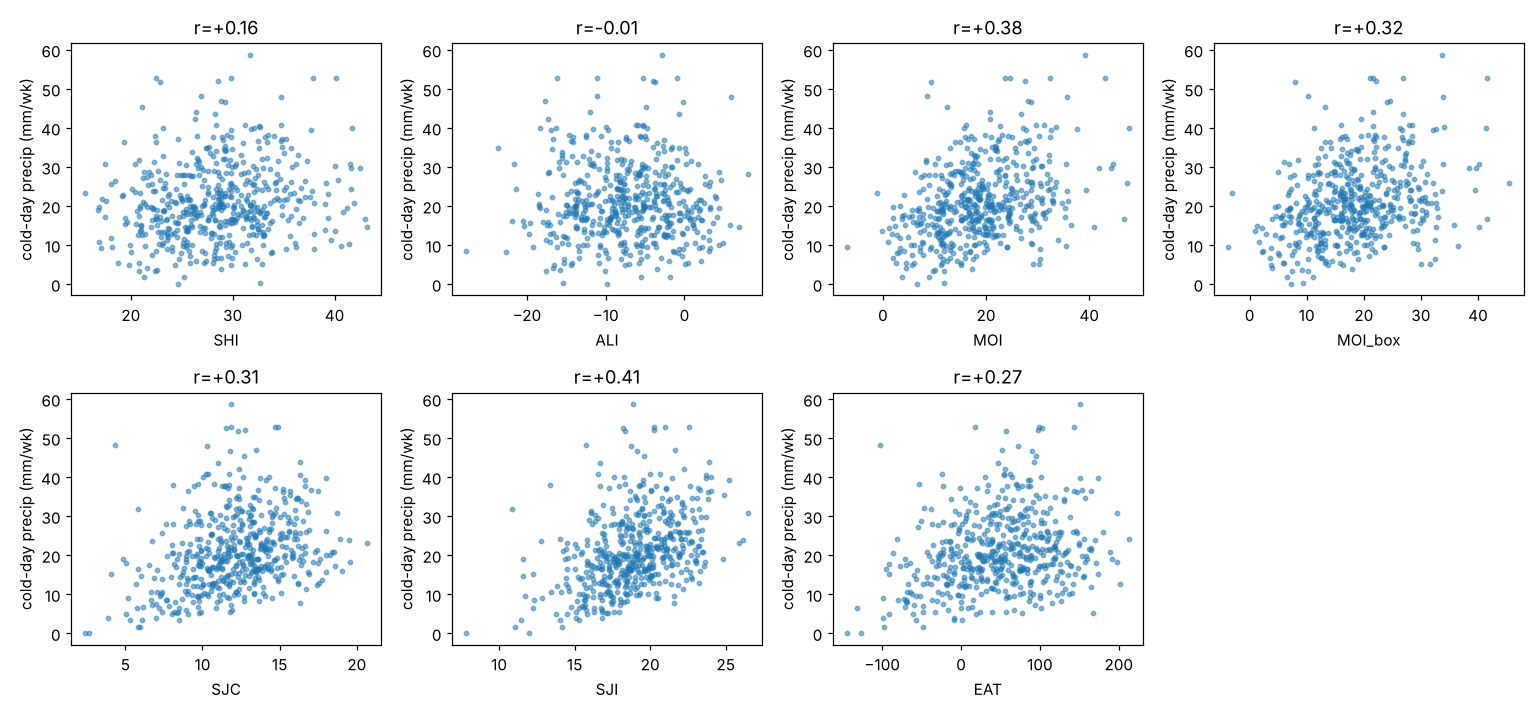
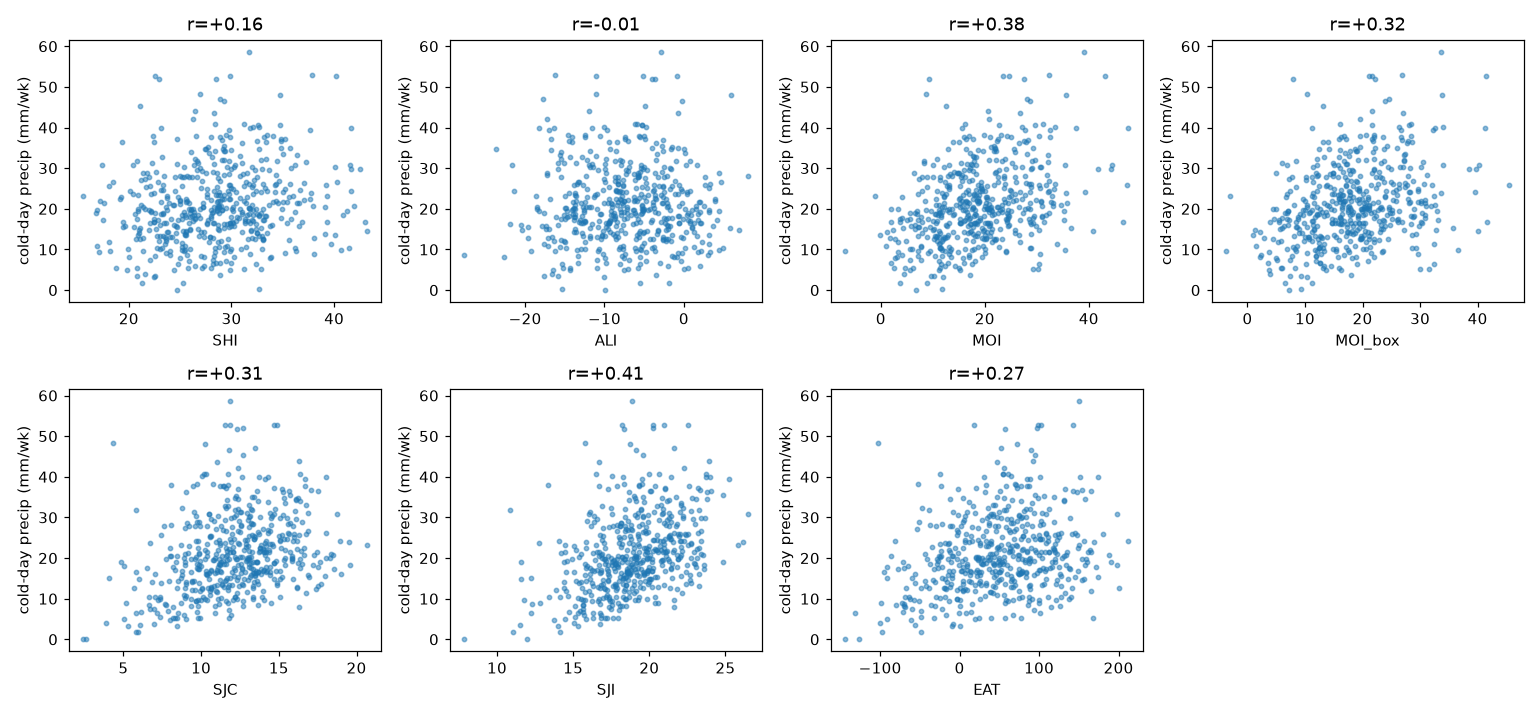
First real backtest: full ECMWF history against real ERA5 truth
The ERA5 1.5-degree WeatherBench2 history (msl/t2m/tp/sst 1979-2023 and
DJF t850/z500) was re-pulled after the session that built it the first
time was torn down without the data ever reaching a release. Reproduces
the climatology numbers already in METHOD.md exactly, which checks the
new pull against the old one.

run_backtest.py --forecast-only now scores against state/truth_weekly_indices.parquet
for real: 6 targets x 2 leads, 130-138 weeks, all 6 open winters
(2017/18-2022/23). Every PBC lift over the debiased model is positive;
ALI is significant at both leads. No leak flags, unlike the earlier
partial-data run.

diff --git a/docs/BACKTEST.md b/docs/BACKTEST.md
@@ -1,36 +1,22 @@
 # Backtest
 
-**SYNTHETIC DATA.** This run exercises the driver on the synthetic fixture (known bias and skill). No real-world skill is claimed. The real backtest replaces this file once S2S and CDS data are in `state/`.
-
 Open test winters: 2017/18, 2018/19, 2019/20, 2020/21, 2021/22, 2022/23 (DJF weeks). Sealed, never evaluated here: 2023/24, 2024/25, 2025/26. Model thresholds use 0 base dates after the issue date (0 = strict). Lift = RPSS(method) − RPSS(operationally debiased model), winter-block bootstrap 95% intervals; an interval spanning zero reads 'no demonstrated improvement'.
 
 ## Lift over the debiased model, per index and lead
 
 | source | index | lead | n weeks | debiased RPSS | raw RPSS | PBC RPSS | **PBC lift** | 95% CI | significant | Debias++ lift | Persistence++ lift | flag |
 |---|---|---|---|---|---|---|---|---|---|---|---|---|
-| ecmwf | MOI | 19 | 152 | 0.265 | -0.534 | 0.274 | **+0.009** | -0.011 to +0.035 | no | -0.101 | +0.034 |  |
-| ecmwf | SJI | 19 | 152 | 0.203 | -0.459 | 0.219 | **+0.016** | -0.022 to +0.048 | no | -0.046 | +0.014 |  |
-| ecmwf | SHI | 19 | 152 | 0.358 | -0.400 | 0.321 | **-0.037** | -0.081 to +0.013 | no | -0.139 | +0.007 | IMPLAUSIBLE: investigate leak |
-| ecmwf | EAT | 19 | 152 | 0.208 | -0.421 | 0.183 | **-0.025** | -0.100 to +0.036 | no | -0.069 | -0.023 |  |
-| jma | MOI | 19 | 152 | 0.142 | -0.228 | 0.164 | **+0.022** | -0.004 to +0.043 | no | -0.029 | +0.028 |  |
-| jma | SJI | 19 | 152 | 0.133 | -0.112 | 0.164 | **+0.031** | +0.010 to +0.057 | yes | +0.027 | +0.002 |  |
-| jma | SHI | 19 | 152 | 0.163 | -0.176 | 0.154 | **-0.010** | -0.058 to +0.039 | no | -0.046 | -0.003 |  |
-| jma | EAT | 19 | 152 | 0.138 | -0.075 | 0.151 | **+0.013** | -0.077 to +0.090 | no | +0.022 | -0.031 |  |
-| ecmwf | MOI | 26 | 152 | 0.210 | -0.536 | 0.238 | **+0.027** | -0.001 to +0.051 | no | -0.050 | +0.012 |  |
-| ecmwf | SJI | 26 | 152 | 0.208 | -0.403 | 0.242 | **+0.034** | +0.014 to +0.050 | yes | -0.004 | +0.016 |  |
-| ecmwf | SHI | 26 | 152 | 0.288 | -0.437 | 0.275 | **-0.012** | -0.061 to +0.040 | no | -0.089 | +0.014 | IMPLAUSIBLE: investigate leak |
-| ecmwf | EAT | 26 | 152 | 0.189 | -0.396 | 0.188 | **-0.001** | -0.073 to +0.067 | no | -0.031 | -0.012 |  |
-| jma | MOI | 26 | 152 | 0.126 | -0.171 | 0.181 | **+0.055** | +0.035 to +0.075 | yes | +0.039 | +0.021 |  |
-| jma | SJI | 26 | 152 | 0.135 | -0.100 | 0.166 | **+0.031** | -0.003 to +0.068 | no | +0.028 | -0.003 |  |
-| jma | SHI | 26 | 152 | 0.231 | -0.120 | 0.204 | **-0.027** | -0.074 to +0.026 | no | -0.069 | -0.015 |  |
-| jma | EAT | 26 | 152 | 0.135 | -0.088 | 0.149 | **+0.015** | -0.097 to +0.113 | no | +0.023 | -0.025 |  |
-| duet | MOI | 19 | 152 | 0.265 | -0.534 | 0.257 | **-0.009** | -0.067 to +0.034 | no | +nan | +nan |  |
-| duet | SJI | 19 | 152 | 0.203 | -0.459 | 0.219 | **+0.016** | -0.022 to +0.048 | no | +nan | +nan |  |
-| duet | SHI | 19 | 152 | 0.358 | -0.400 | 0.263 | **-0.095** | -0.143 to -0.048 | yes | +nan | +nan | IMPLAUSIBLE: investigate leak |
-| duet | EAT | 19 | 152 | 0.208 | -0.421 | 0.183 | **-0.025** | -0.100 to +0.036 | no | +nan | +nan |  |
-| duet | MOI | 26 | 152 | 0.210 | -0.536 | 0.238 | **+0.027** | -0.001 to +0.051 | no | +nan | +nan |  |
-| duet | SJI | 26 | 152 | 0.208 | -0.403 | 0.242 | **+0.034** | +0.014 to +0.050 | yes | +nan | +nan |  |
-| duet | SHI | 26 | 152 | 0.288 | -0.437 | 0.275 | **-0.012** | -0.061 to +0.040 | no | +nan | +nan |  |
-| duet | EAT | 26 | 152 | 0.189 | -0.396 | 0.186 | **-0.003** | -0.086 to +0.083 | no | +nan | +nan |  |
+| ecmwf | SHI | 19 | 138 | 0.019 | 0.066 | 0.075 | **+0.056** | -0.006 to +0.148 | no | +0.053 | +0.015 |  |
+| ecmwf | ALI | 19 | 138 | -0.088 | -0.030 | 0.008 | **+0.096** | +0.003 to +0.182 | yes | +0.057 | +0.100 |  |
+| ecmwf | MOI | 19 | 138 | 0.063 | 0.075 | 0.089 | **+0.026** | -0.045 to +0.106 | no | +0.030 | -0.026 |  |
+| ecmwf | MOI_box | 19 | 138 | 0.015 | 0.027 | 0.051 | **+0.036** | -0.046 to +0.125 | no | +0.030 | -0.006 |  |
+| ecmwf | SJC | 19 | 130 | 0.019 | 0.060 | 0.019 | **+0.053** | -0.026 to +0.147 | no | +0.067 | -0.010 |  |
+| ecmwf | EAT | 19 | 130 | 0.024 | 0.109 | 0.121 | **+0.015** | -0.062 to +0.118 | no | +0.096 | -0.094 |  |
+| ecmwf | SHI | 26 | 138 | -0.009 | 0.019 | 0.041 | **+0.056** | -0.015 to +0.159 | no | +0.045 | +0.010 |  |
+| ecmwf | ALI | 26 | 138 | -0.194 | -0.141 | -0.061 | **+0.134** | +0.018 to +0.258 | yes | +0.067 | +0.160 |  |
+| ecmwf | MOI | 26 | 138 | -0.001 | -0.016 | 0.020 | **+0.023** | -0.027 to +0.079 | no | +0.013 | -0.036 |  |
+| ecmwf | MOI_box | 26 | 138 | -0.031 | -0.067 | -0.001 | **+0.026** | -0.044 to +0.106 | no | +0.000 | -0.010 |  |
+| ecmwf | SJC | 26 | 130 | 0.023 | 0.013 | -0.024 | **+0.082** | -0.116 to +0.312 | no | +0.032 | +0.008 |  |
+| ecmwf | EAT | 26 | 130 | 0.010 | 0.077 | 0.083 | **+0.109** | -0.057 to +0.256 | no | +0.085 | +0.067 |  |
 
 Snow-week (Stage 3) and windows-of-opportunity tables are added once SNOW-W truth exists (needs the CDS key).
